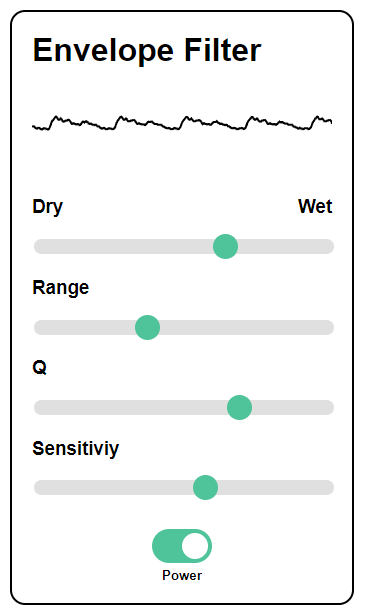
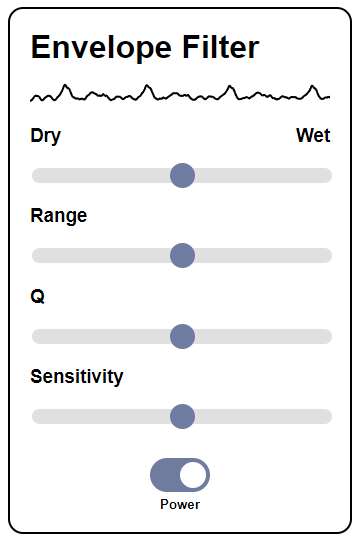
New style color

Changed region(s): [[0.0608, 0.1562, 0.9116, 0.8125], [0.0, 0.0, 0.9724, 1.0], [0.0912, 0.0625, 0.7293, 0.125]]

diff --git a/filter.js b/filter.js
@@ -8,113 +8,113 @@ const canvasContext = canvas.getContext("2d");
 document.getElementById('on-off').addEventListener('click', toggleOnOff);
 
 function graph(dataArray, bufferLength) {
-    canvasContext.clearRect(0, 0, canvas.width, canvas.height);
-    canvasContext.lineWidth = 2;
-    canvasContext.strokeStyle = "rgb(0, 0, 0)";
+	canvasContext.clearRect(0, 0, canvas.width, canvas.height);
+	canvasContext.lineWidth = 2;
+	canvasContext.strokeStyle = "rgb(0, 0, 0)";
 
-    let x = 0;
-    const sliceWidth = (canvas.width * 1.0) / bufferLength;
-    canvasContext.beginPath();
-    for (let i = 0; i < bufferLength; i++) {
-        const v = dataArray[i] / 128.0;
-        const y = (v * canvas.height) / 2;
+	let x = 0;
+	const sliceWidth = (canvas.width * 1.0) / bufferLength;
+	canvasContext.beginPath();
+	for (let i = 0; i < bufferLength; i++) {
+		const v = dataArray[i] / 128.0;
+		const y = (v * canvas.height) / 2;
 
-        if (i === 0) {
-            canvasContext.moveTo(x, y);
-        } else {
-            canvasContext.lineTo(x, y);
-        }
+		if (i === 0) {
+			canvasContext.moveTo(x, y);
+		} else {
+			canvasContext.lineTo(x, y);
+		}
 
-        x += sliceWidth;
-    }
-    canvasContext.lineTo(canvas.width, canvas.height / 2);
-    canvasContext.stroke();
+		x += sliceWidth;
+	}
+	canvasContext.lineTo(canvas.width, canvas.height / 2);
+	canvasContext.stroke();
 }
 
 function toggleOnOff() {
-    if (document.getElementById('on-off').checked === true) {
-        if (audioContext == null) {
-            audioContext = new AudioContext();
-        } else if (audioContext.state === 'suspended') {
-            audioContext.resume();
-        }
-        id = navigator.mediaDevices.getUserMedia({
-            audio: {
-                echoCancellation: false,
-                autoGainControl: false,
-                noiseSuppression: false,
-                latency: 0
-            }
-        }).then((stream) => {
-            // Default values
-            var minFreq = 125;
-            var sens = 0.5;
-            const MIN_RMS = 0.005;
+	if (document.getElementById('on-off').checked === true) {
+		if (audioContext == null) {
+			audioContext = new AudioContext();
+		} else if (audioContext.state === 'suspended') {
+			audioContext.resume();
+		}
+		id = navigator.mediaDevices.getUserMedia({
+			audio: {
+				echoCancellation: false,
+				autoGainControl: false,
+				noiseSuppression: false,
+				latency: 0
+			}
+		}).then((stream) => {
+			// Default values
+			var minFreq = 125;
+			var sens = 0.55;
+			const MIN_RMS = 0.005;
 
-            // Processing nodes
-            const inputNode = audioContext.createMediaStreamSource(stream);
-            const dryNode = audioContext.createGain();
-            const analyserNode = audioContext.createAnalyser();
-            const filterNode = audioContext.createBiquadFilter();
-            const wetNode = audioContext.createGain();
+			// Processing nodes
+			const inputNode = audioContext.createMediaStreamSource(stream);
+			const dryNode = audioContext.createGain();
+			const analyserNode = audioContext.createAnalyser();
+			const filterNode = audioContext.createBiquadFilter();
+			const wetNode = audioContext.createGain();
 
-            // Set the defaults
-            filterNode.Q.setValueAtTime(15, audioContext.currentTime);
-            dryNode.gain.setValueAtTime(0.5, audioContext.currentTime);
-            wetNode.gain.setValueAtTime(0.5, audioContext.currentTime);
+			// Set the defaults
+			filterNode.Q.setValueAtTime(15, audioContext.currentTime);
+			dryNode.gain.setValueAtTime(0.5, audioContext.currentTime);
+			wetNode.gain.setValueAtTime(0.5, audioContext.currentTime);
 
-            // Conect the nodes
-            inputNode.connect(analyserNode);
-            inputNode.connect(dryNode);
-            inputNode.connect(filterNode);
-            filterNode.connect(wetNode);
-            dryNode.connect(audioContext.destination);
-            wetNode.connect(audioContext.destination);
+			// Conect the nodes
+			inputNode.connect(analyserNode);
+			inputNode.connect(dryNode);
+			inputNode.connect(filterNode);
+			filterNode.connect(wetNode);
+			dryNode.connect(audioContext.destination);
+			wetNode.connect(audioContext.destination);
 
-            // Control events
-            document.getElementById('q-value').addEventListener('input', function () {
-                filterNode.Q.setValueAtTime(this.value, audioContext.currentTime);
-            });
-            document.getElementById('decay-value').addEventListener('input', function () {
-                minFreq = this.value;
-            });
-            document.getElementById('mix-value').addEventListener('input', function () {
-                dryNode.gain.setValueAtTime((100 - this.value) / 100, audioContext.currentTime);
-                wetNode.gain.setValueAtTime(this.value / 100, audioContext.currentTime);
-            });
-            document.getElementById('sens-value').addEventListener('input', function () {
-                sens = this.value / 100;
-            });
+			// Control events
+			document.getElementById('q-value').addEventListener('input', function () {
+				filterNode.Q.setValueAtTime(this.value, audioContext.currentTime);
+			});
+			document.getElementById('decay-value').addEventListener('input', function () {
+				minFreq = this.value;
+			});
+			document.getElementById('mix-value').addEventListener('input', function () {
+				dryNode.gain.setValueAtTime((100 - this.value) / 100, audioContext.currentTime);
+				wetNode.gain.setValueAtTime(this.value / 100, audioContext.currentTime);
+			});
+			document.getElementById('sens-value').addEventListener('input', function () {
+				sens = this.value / 100;
+			});
 
-            // Envelope generator
-            setInterval(function () {
-                if (audioContext.state !== 'suspended') {
-                    var dataArray = new Uint8Array(analyserNode.frequencyBinCount);
+			// Envelope generator
+			setInterval(function () {
+				if (audioContext.state !== 'suspended') {
+					var dataArray = new Uint8Array(analyserNode.frequencyBinCount);
 
-                    // Time domain values
-                    analyserNode.getByteTimeDomainData(dataArray);
+					// Time domain values
+					analyserNode.getByteTimeDomainData(dataArray);
 
-                    // Get the RMS value as a value of intensity (envelope)
-                    var rms = Math.sqrt(
-                        dataArray.reduce(function (acc, val) {
-                            return acc + Math.pow((val - 128) / 128, 2);
-                        }, 0) / dataArray.length
-                    );
+					// Get the RMS value as a value of intensity (envelope)
+					var rms = Math.sqrt(
+						dataArray.reduce(function (acc, val) {
+							return acc + Math.pow((val - 128) / 128, 2);
+						}, 0) / dataArray.length
+					);
 
-                    // Get a new cut off frequency based on the envelope and the sensibility
-                    newFreq = rms * minFreq / MIN_RMS * sens;
+					// Get a new cut off frequency based on the envelope and the sensibility
+					newFreq = rms * minFreq / MIN_RMS * sens;
 
-                    filterNode.frequency.setValueAtTime(newFreq, audioContext.currentTime);
+					filterNode.frequency.setValueAtTime(newFreq, audioContext.currentTime);
 
-                    graph(dataArray, analyserNode.frequencyBinCount);
-                }
-            }, ENVELOPE_UPDATE_TIME);
-        }).catch((error) => {
-            console.error('Error:', error);
-        });
-    } else {
-        if (audioContext != null) {
-            audioContext.suspend();
-        }
-    }
+					graph(dataArray, analyserNode.frequencyBinCount);
+				}
+			}, ENVELOPE_UPDATE_TIME);
+		}).catch((error) => {
+			console.error('Error:', error);
+		});
+	} else {
+		if (audioContext != null) {
+			audioContext.suspend();
+		}
+	}
 }

diff --git a/index.html b/index.html
@@ -16,7 +16,7 @@
             <div class="header">
                 <h1>Envelope Filter</h1>
             </div>
-            <canvas id="canvas" height="100"></canvas>
+            <canvas id="canvas" height="50"></canvas>
             <div class="parameters">
                 <div>
                     <div class="dry-wet-container">
@@ -49,10 +49,10 @@
                 </div>
                 <div>
                     <div class="parameter">
-                        <h3>Sensitiviy</h3>
+                        <h3>Sensitivity</h3>
                     </div>
                     <div class="">
-                        <input type="range" min="10" max="100" value="45" class="slider" id="sens-value">
+                        <input type="range" min="10" max="100" value="55" class="slider" id="sens-value">
                     </div>
                 </div>
                 <div class="on-off">

diff --git a/style.css b/style.css
@@ -50,7 +50,7 @@ h5 {
     width: 25px;
     height: 25px;
     border-radius: 50%; 
-    background: #04AA6D;
+    background: #324376;
     cursor: pointer;
   }
   
@@ -58,7 +58,7 @@ h5 {
     width: 25px;
     height: 25px;
     border-radius: 50%;
-    background: #04AA6D;
+    background: #324376;
     cursor: pointer;
   }
 
@@ -105,11 +105,11 @@ h5 {
 }
 
 input:checked+.toggle {
-    background-color: #04AA6D;
+    background-color: #324376;
 }
 
 input:focus+.toggle {
-    box-shadow: 0 0 1px #04AA6D;
+    box-shadow: 0 0 1px #324376;
 }
 
 input:checked+.toggle:before {
@@ -138,4 +138,8 @@ input:checked+.toggle:before {
 .dry-wet-container {
     display: flex;
     justify-content: space-between;
+}
+
+.dry-wet-container h3 {
+    margin-top: 0;
 }
